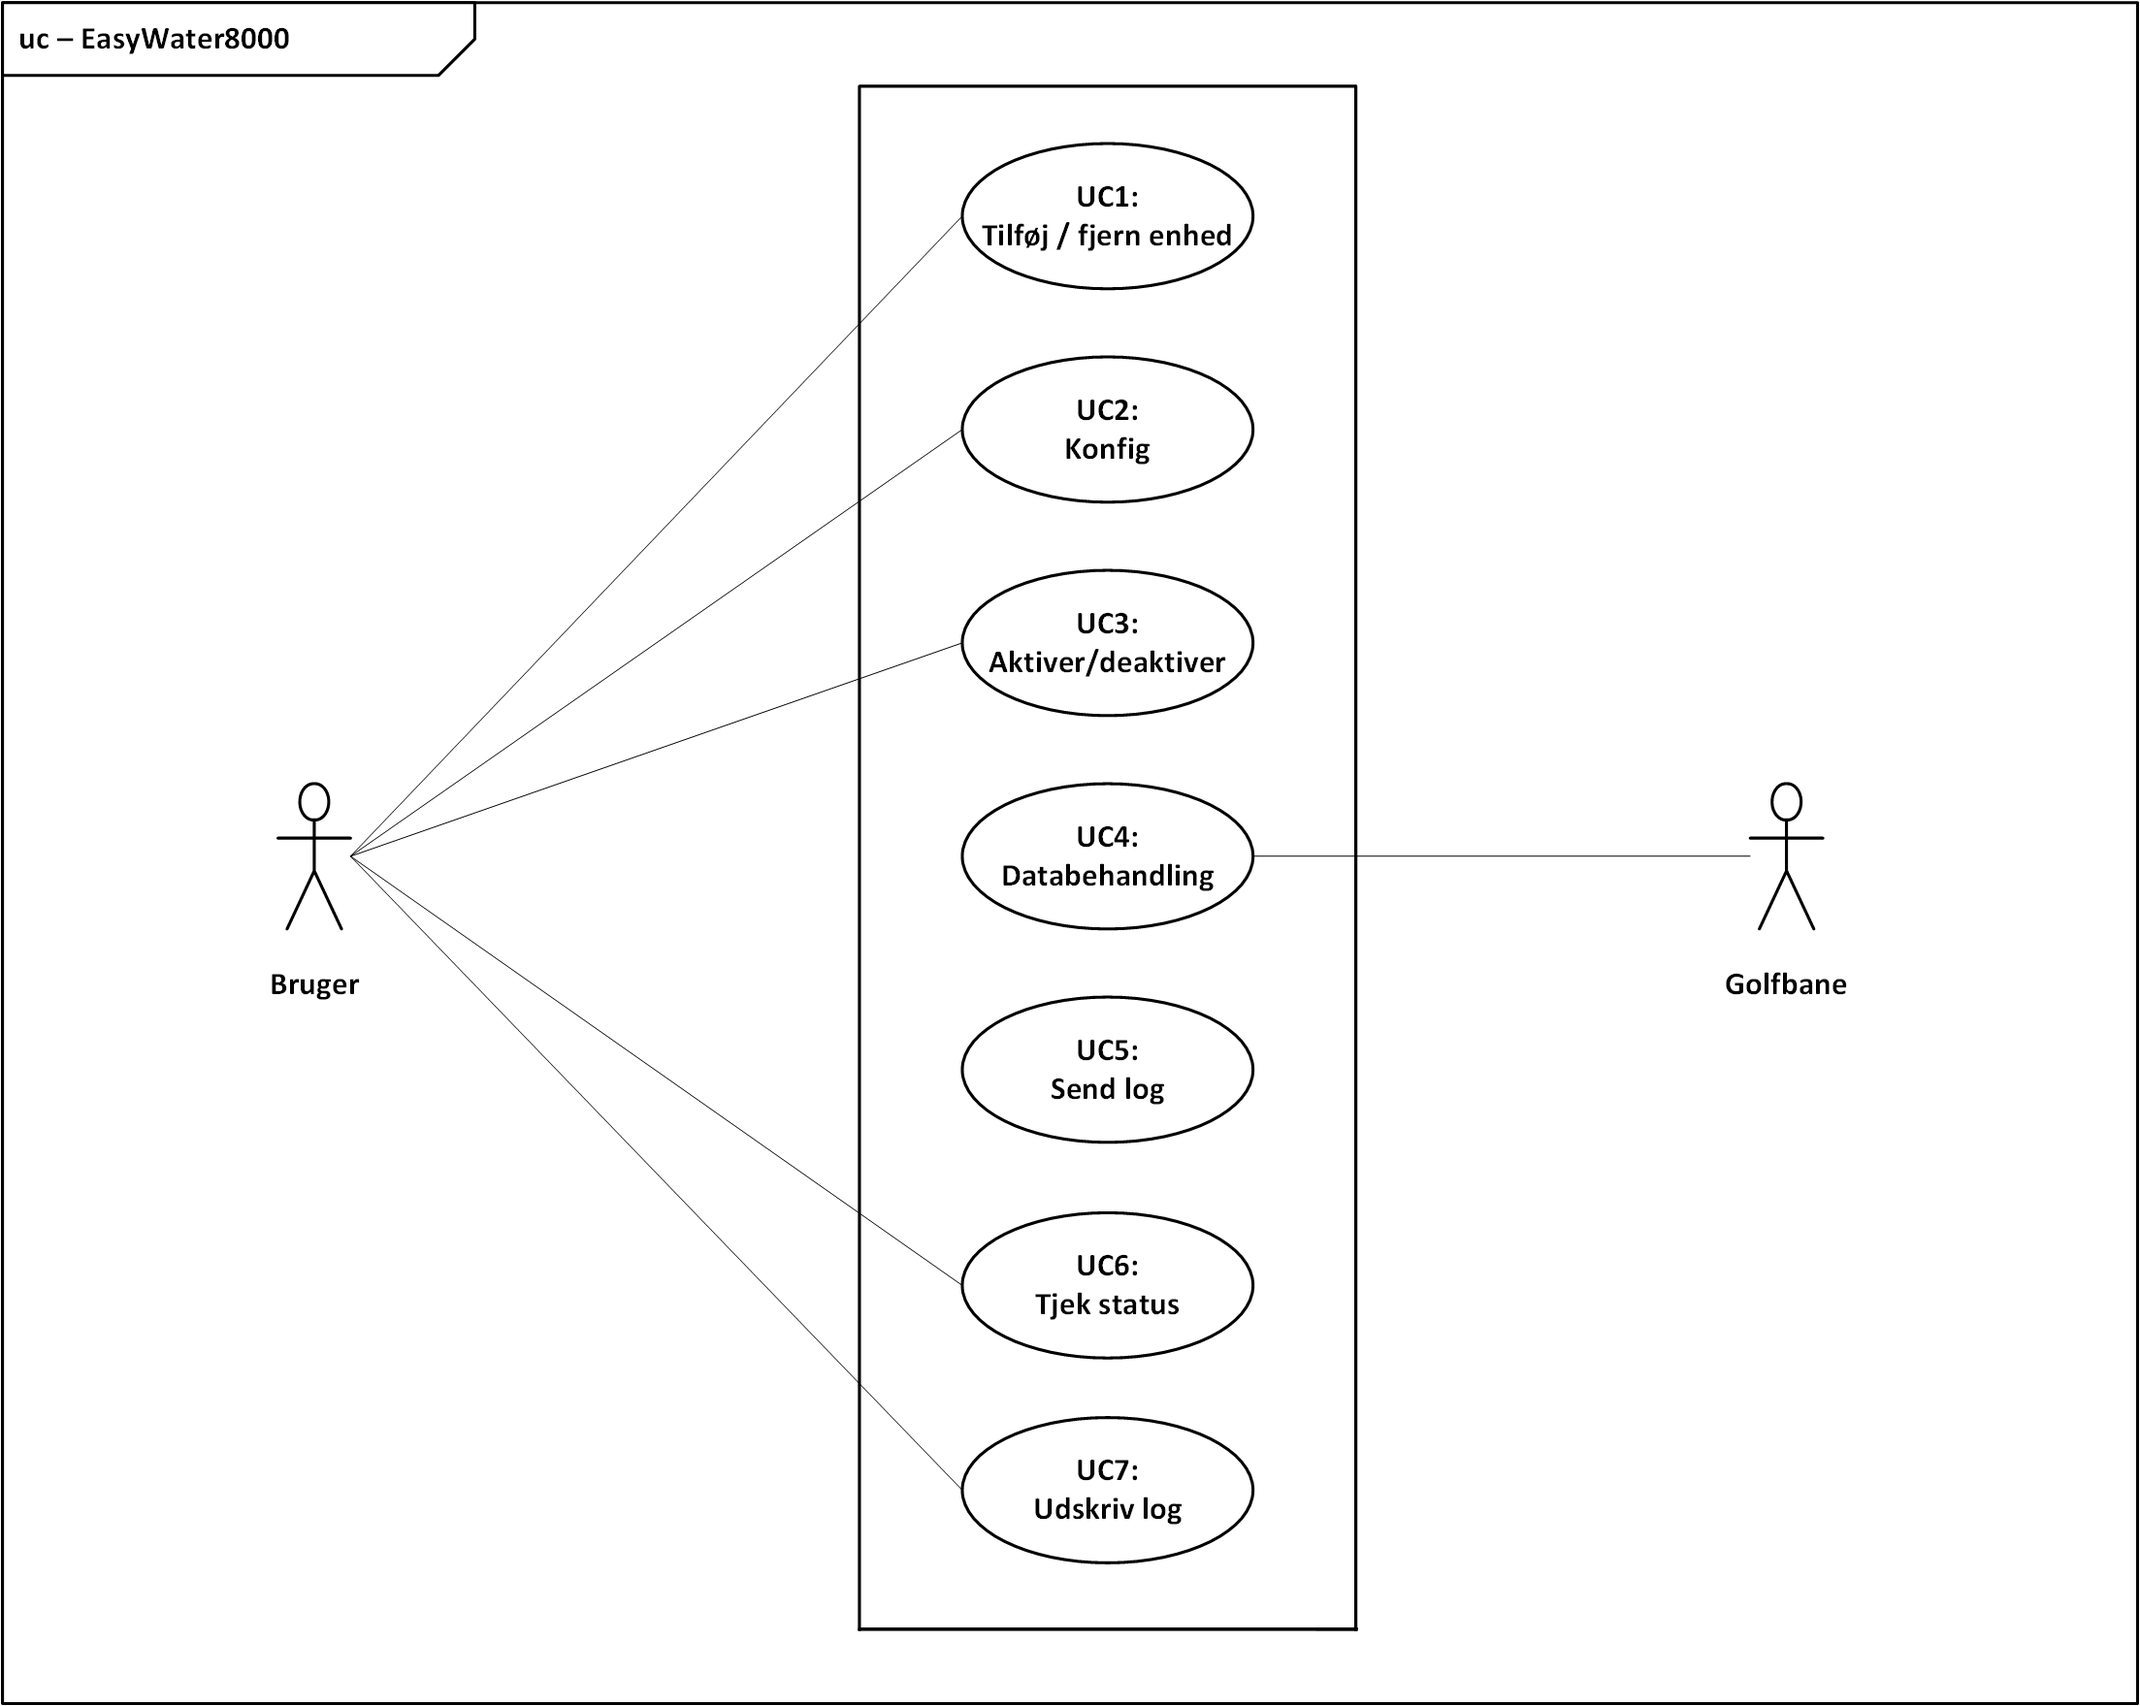
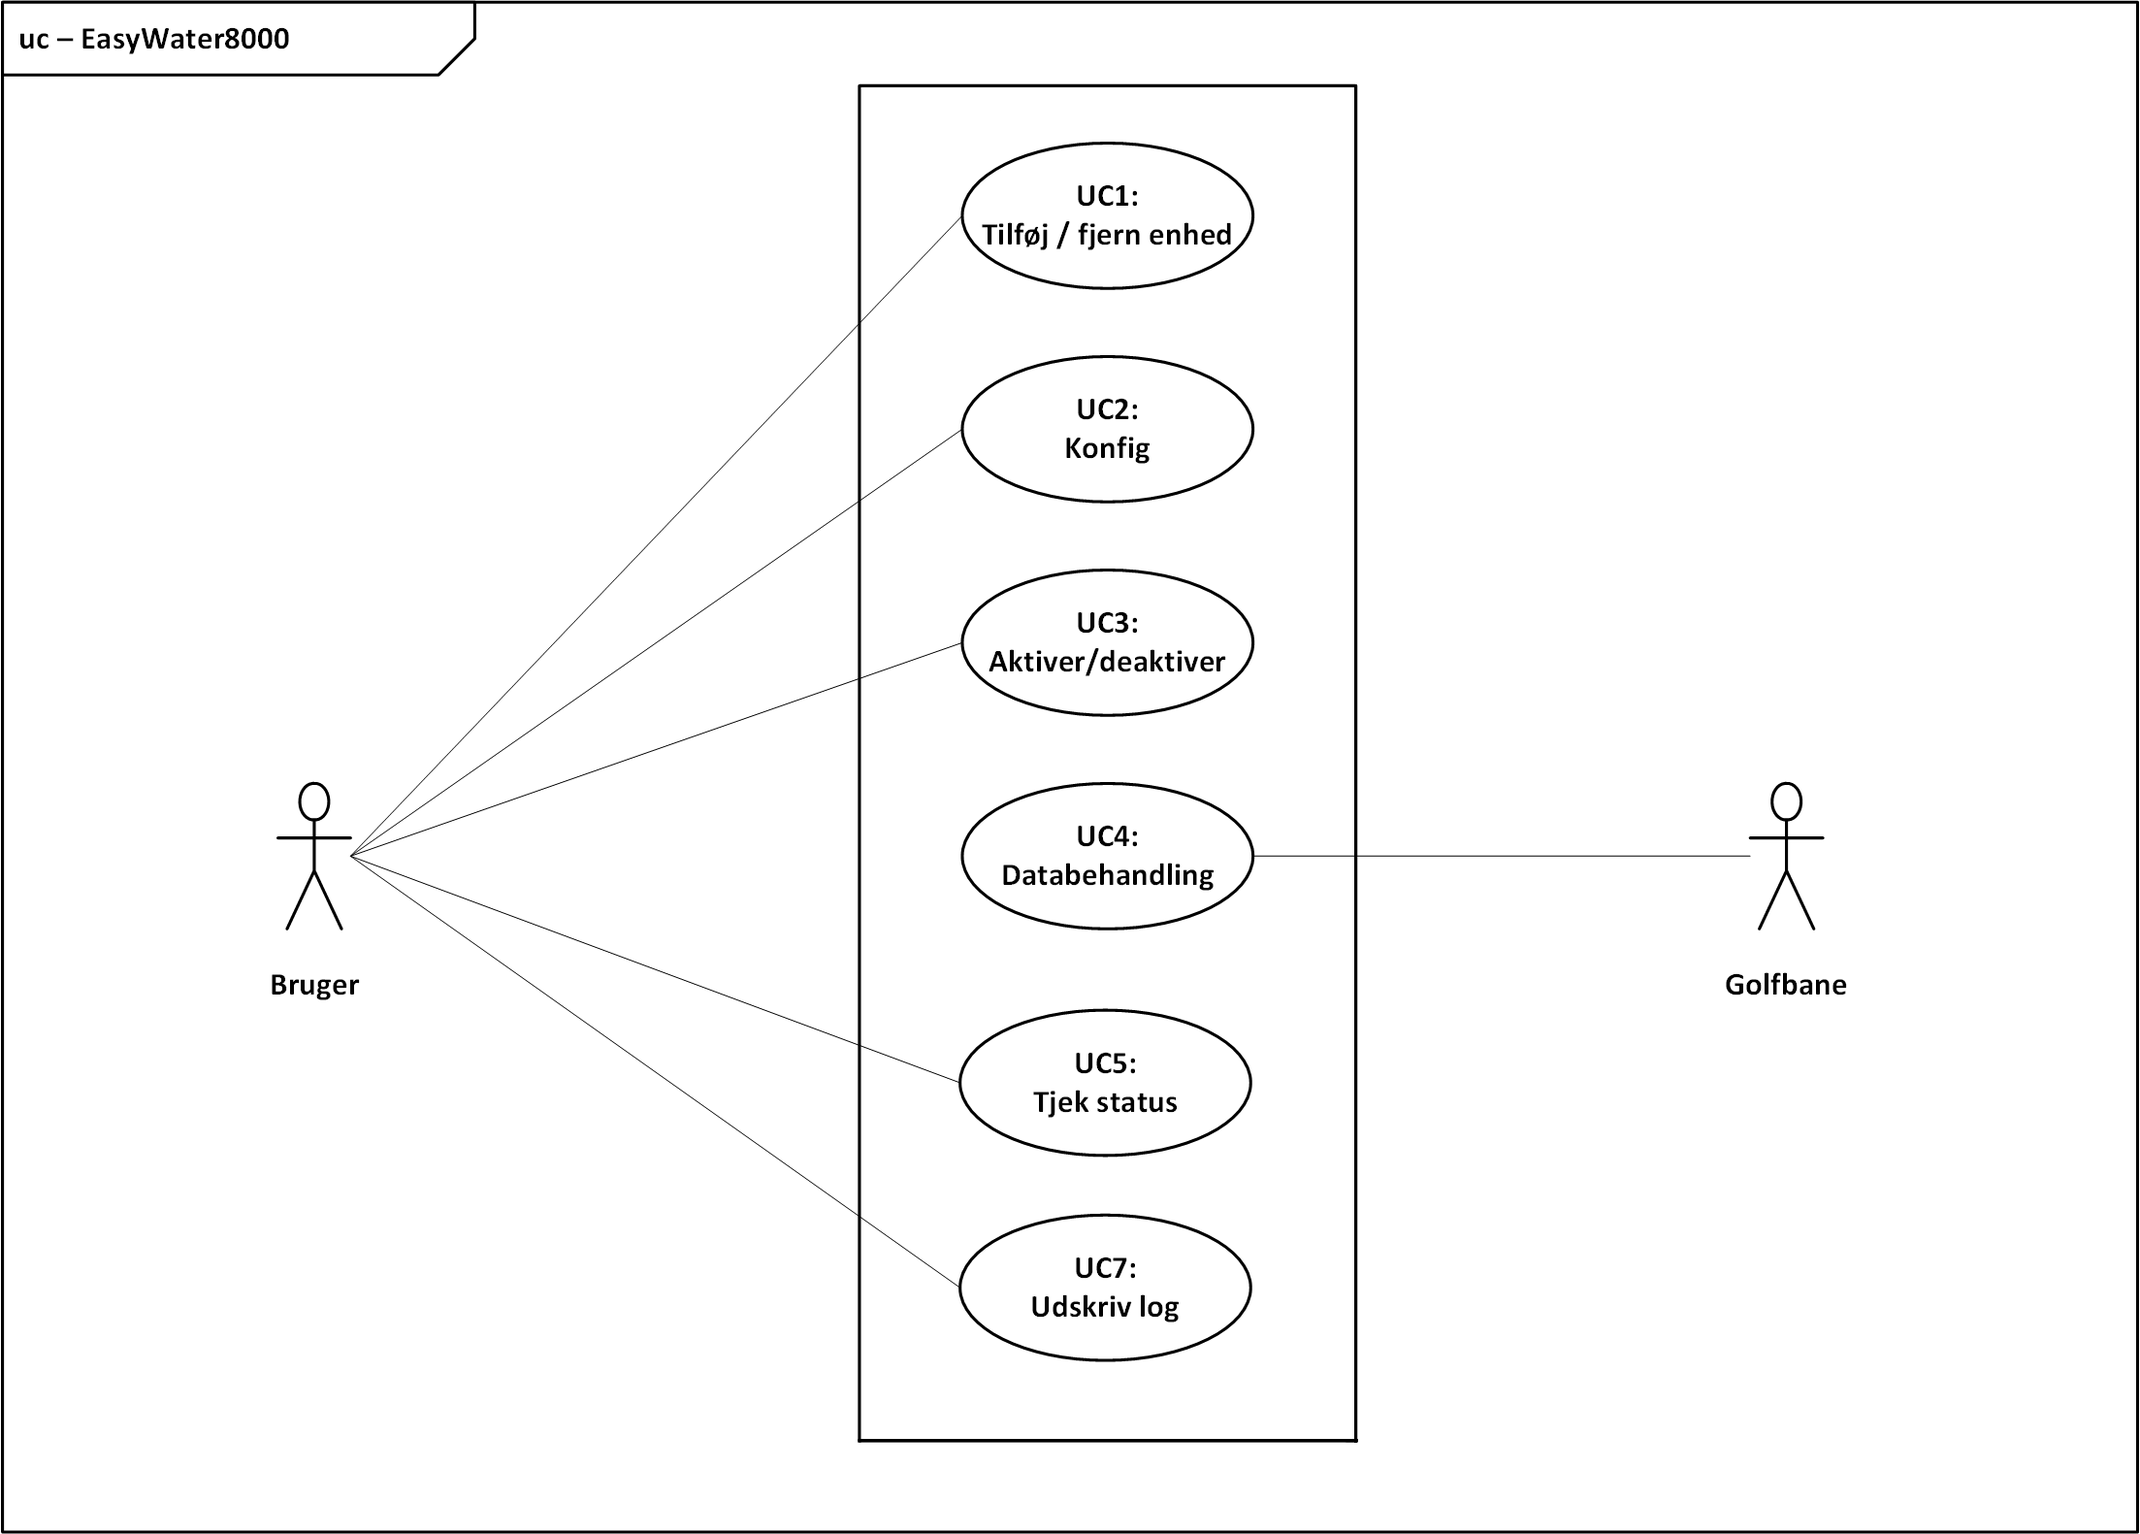
Relæstyring, UC diagram og spændingsregulator
Relæstyringen er opdateret med den korrekt modstand + tekst. UC diagram
er rettet så det stemmer overens med UC. Køling til
spændingsregulatoren. Signaltabel rettet til

diff --git a/Projektdokumentation/filer/design/hw_pumpe.tex b/Projektdokumentation/filer/design/hw_pumpe.tex
@@ -39,10 +39,10 @@ I følge databladet for Finder 40.52s (figur \ref{lab:finder4052s}), kræver rel
 
 PSoC'ens udgang giver hverken strøm eller spænding nok til at trække relæet. PSoC'en afgiver 3,3V og relæet kræver 5V. For at opnå dette benyttes en transistor til styringen af relæet. Relæet kræver 5V og 100mA, derfor skal transistoren opfylde dette krav, det gør BC517 den kan leverer 500 mA. \newline
 
-R1(Ibase) modstanden er indsat for at begrænse den strøm der går til transistorens base ben, ifølge databladet for transistoren må Ibase strømmen max være 100 mA. Modstanden er beregnet udfra ohmslov og der er valgt en modstand på 100 ohm, der begrænser strømmen til 33 mA. Dioden er indsat for at beskytte transistoren.
+R1(Ibase) modstanden er indsat for at begrænse den strøm der går til transistorens base ben, ifølge databladet for transistoren må Ibase strømmen max være 100 mA. Spændingen ved PSoC'en er 3,3V og spændingen ved transistoren base ben er 1,4V, det giver en spænding på 1,8V over modstanden. Modstanden er beregnet udfra ohmslov og der er valgt en modstand på 18 kohm, der begrænser strømmen til 0,1 mA. Strømforstærkningen er faktisk 30000 gange i transistoren, så en strøm på 3 uA burde være nok, men der er taget et valg om at strømmen skal være 0,1 mA. Hvis modstanden blev alt for stor ville relæet tage længere tid om at trække. Databladet for BC517 har oplyst et spændingsfald på 1V i mættet tilstand det vil efterlade 4 V til relæet hvilket er nok. Dioden er indsat for at beskytte transistoren.
 
 \begin{equation}
-Ibase = \frac{3,3V}{100\Omega} = 0,033A = 33mA
+Ibase = \frac{1,8V}{18k\Omega} = 0,1mA
 \end{equation}
 
 \begin{figure}[H] \centering

diff --git a/Projektdokumentation/filer/HWbeskrivelse.tex b/Projektdokumentation/filer/HWbeskrivelse.tex
@@ -87,11 +87,11 @@ For at fuldende beskrivelsen af grænsefladen er der lavet en signaltabel som ka
 
 SPI:SPI seriel 			&Seriel kommunikation 	& 				&Master (DK\_02)		&Enhed (P\_DK)			&					 \\\hline
 
-PIR-TTL 					&TTL 					&0\slash3,3V 	&PIR-sensor (PIR\_01) &Enhed (P\_PIR)			&					\\\hline
-VP-TTL 					&TTL 					&0\slash3,3V 	&Enhed (P\_VP)  &Vandpumpe (VP\_01)				&					\\\hline
+PIR-TTL 					&TTL 					&0(lav)\slash3,3V(høj) 	&PIR-sensor (PIR\_01) &Enhed (P\_PIR)			&Interrupt reagerer på høj flanke 					\\\hline
+VP-TTL 					&TTL 					&0(lav)\slash3,3V(høj) 	&Enhed (P\_VP)  &Vandpumpe (VP\_01)				&					\\\hline
 					
-FT-TTL					&TTL						&0\slash3,3V 	&Enhed (P\_FT2) &FT-sensor (FT\_02)				&	    				\\\hline
-FT-Analog				&Analog 					&0-3,3V 	\newline +/-10\%	&FT-sensor (FT\_01) &Enhed (P\_FT1)				&	    				\\\hline
+FT-TTL					&TTL						&0(lav)\slash3,3V(høj) 	&Enhed (P\_FT2) &FT-sensor (FT\_02)				&	    				\\\hline
+FT-Analog				&Analog 					&0-3,3V 	\newline +/-10\%	&FT-sensor (FT\_01) &Enhed (P\_FT1)				& PWM signal	    				\\\hline
 
 \end{tabular}
 \end{small}

diff --git a/Projektdokumentation/filer/design/hw_kompprint.tex b/Projektdokumentation/filer/design/hw_kompprint.tex
@@ -4,7 +4,7 @@ For at frigøre sig fra laboratoriets strømforsyningerne udarbejdes egen strøm
 
 230Vac/12Vdc transformeren er fra en gammel computer. Denne kan give 2 amperre og er forsynet med et DC stik (12V) og en stikprop (230Vac). Denne transformer bruges som den er. 
 
-For at regulere fra de 12 V til 5 V benyttes en spændingsregulator. LM7805 er beregnet netop til dette formål. Ud fra databladet \ref{lab:LM7805} ses forbindelsen af LM7805'ern. Databladet foreskriver også at regulatoren kan give et output på max 1A ved korrekt køling. 
+For at regulere fra de 12 V til 5 V benyttes en spændingsregulator. LM7805 er beregnet netop til dette formål. Ud fra databladet \ref{lab:LM7805} ses forbindelsen af LM7805'ern. Databladet foreskriver også at regulatoren kan give et output på max 1A ved korrekt køling. Kølingen bliver fortaget med køleplader på begge regulatorer, for at sikre at den ikke bliver for varm. 
 
 \begin{figure}[H] \centering
 {\includegraphics[width=\textwidth]{filer/design/Billeder/LM7805_DATASHEET}}
